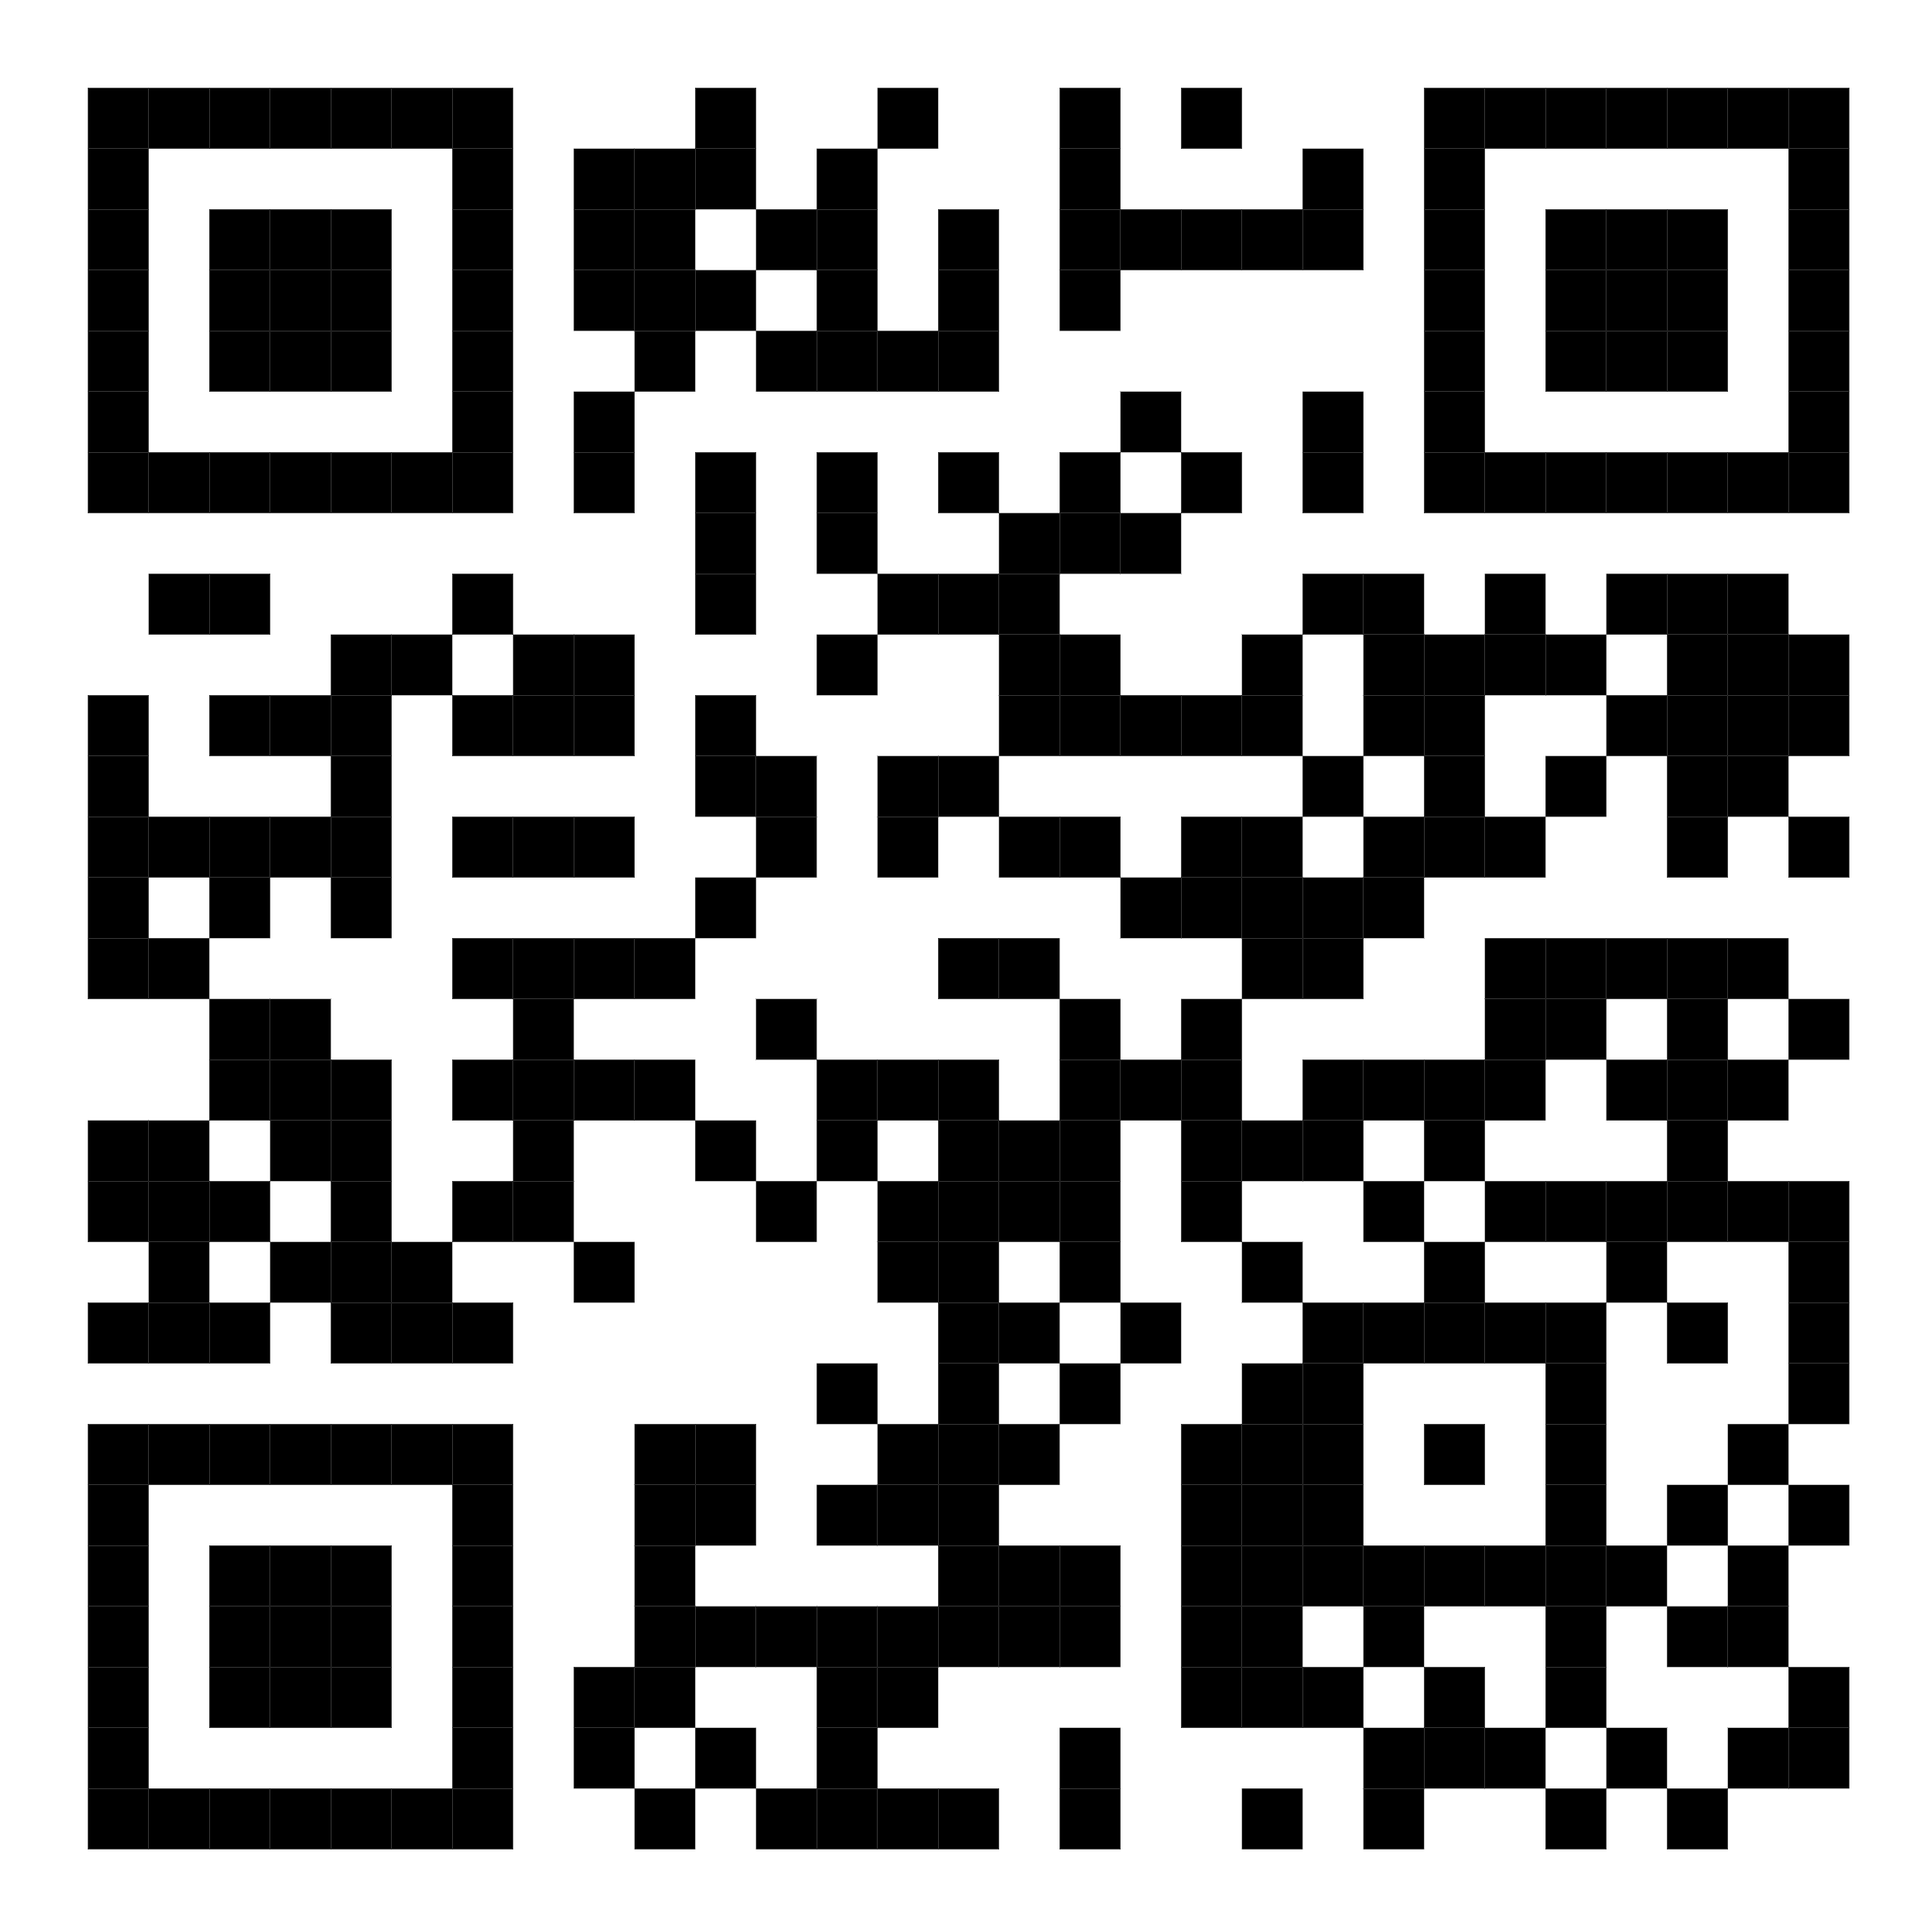
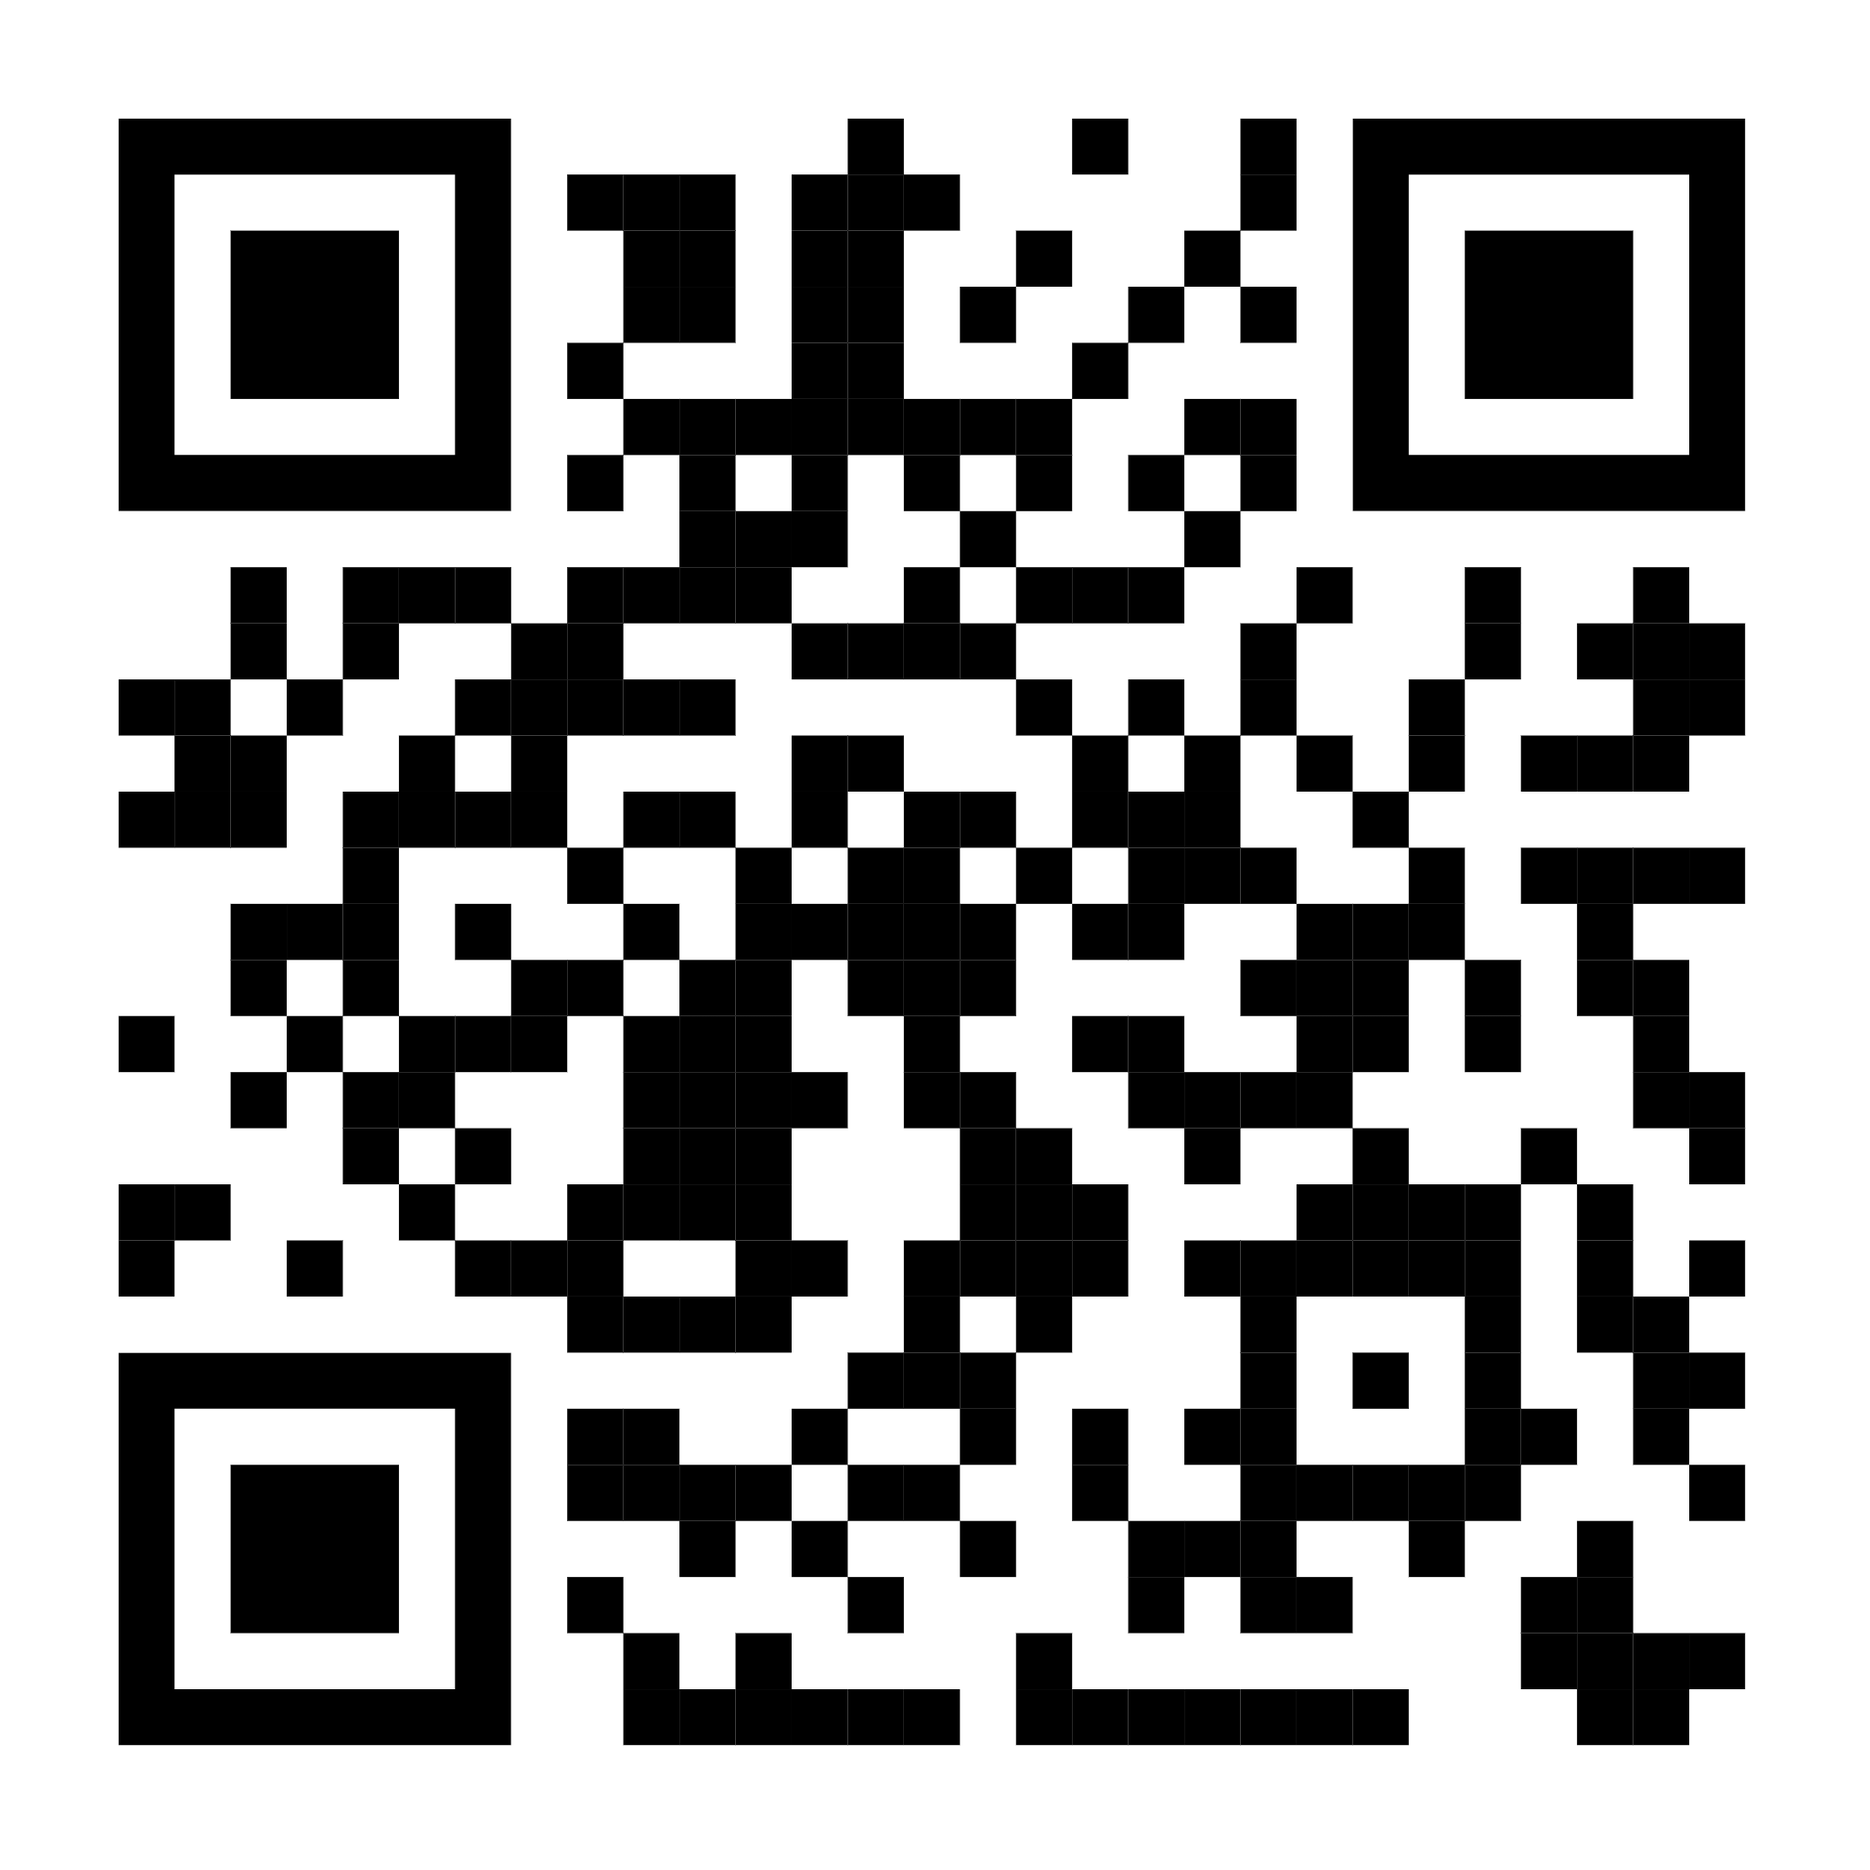
last one

diff --git a/README.md b/README.md
@@ -2,6 +2,6 @@
 
 
 id: 314807496
-website link: https://web-development-environments-2023.github.io/assignment1-ofirbel/
+website link: https://web-development-environments-2023.github.io/314807496/
 
 info : my grandpa recently past away so I didn't want to create this website about someone from my family(not ready yet) so created about michael jordan- an inspiration to alot of people
